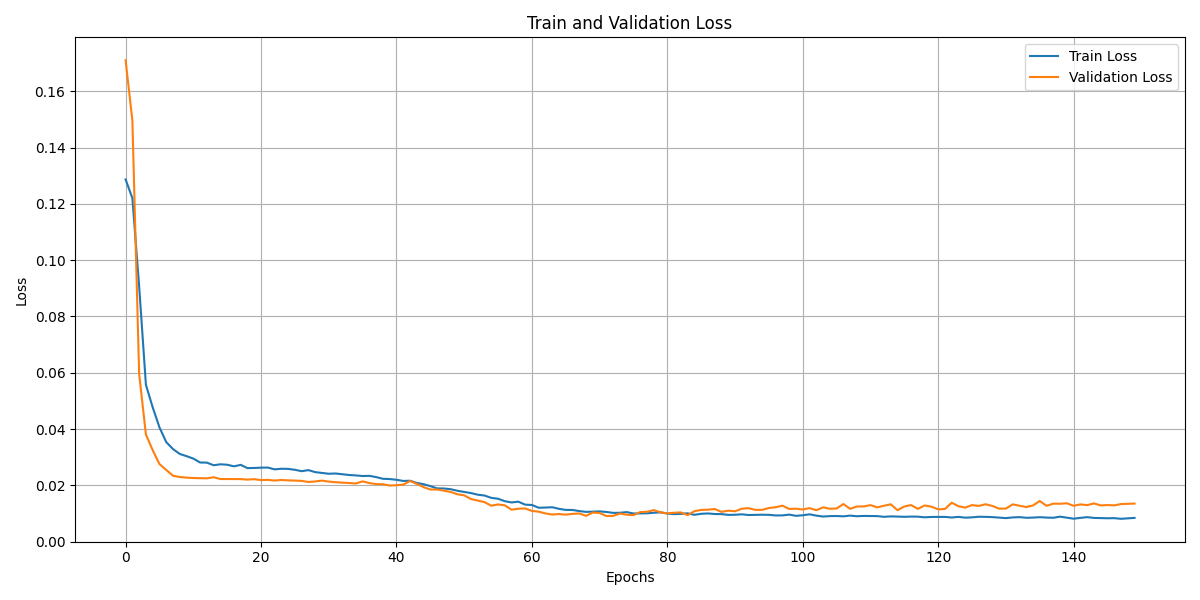
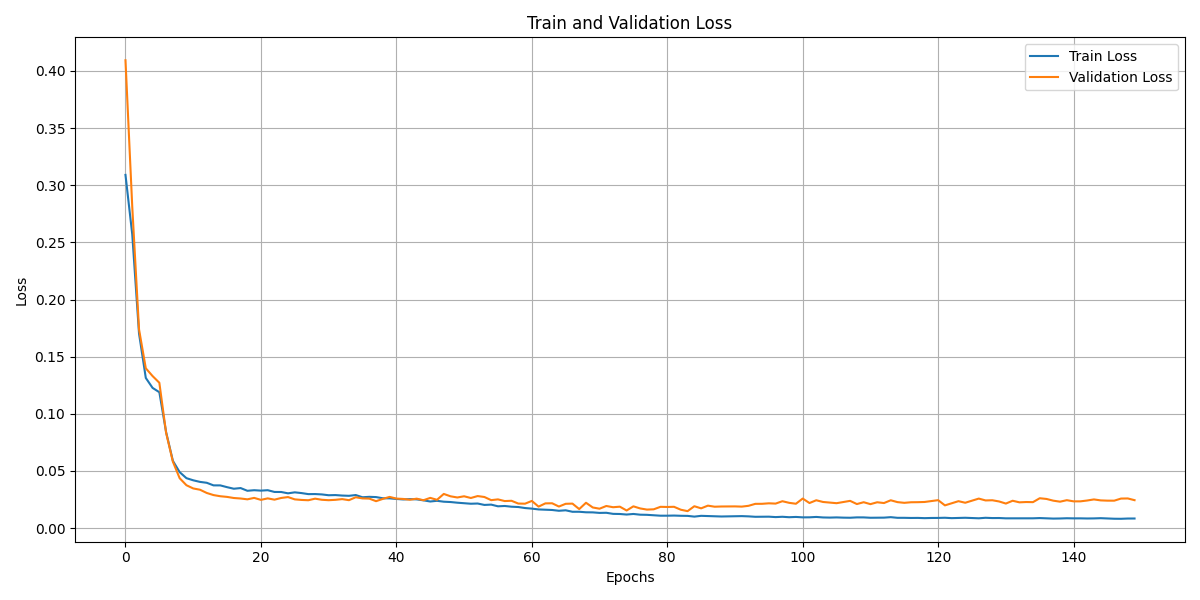
add GUI with streamlit

diff --git a/src/split_data.py b/src/split_data.py
@@ -74,25 +74,25 @@ def split_data(df, train_size=train_size, val_size=val_size, test_size=test_size
 
 if __name__ == "__main__":
     # Daily data
-    df_daily = pd.read_csv('../data/data_daily-2010_2025.csv', skiprows=2)
+    df_daily = pd.read_csv('./data/data_daily-2010_2025.csv', skiprows=2)
     df_daily['time'] = pd.to_datetime(df_daily['time'], format='%Y-%m-%d')
     df_daily = df_daily.set_index('time')
     df_daily = df_daily.sort_index(ascending=True)
     
     daily_data_temp = df_daily[['temperature_2m_mean (°C)', 'soil_temperature_0_to_7cm_mean (°C)', 'et0_fao_evapotranspiration_sum (mm)', 'relative_humidity_2m_mean (%)', 'soil_moisture_0_to_7cm_mean (m³/m³)']].copy()
-    split_data(daily_data_temp, path='../data/daily/temp/')
-    joblib.dump(scaler, '../data/scaler_temp.save')
+    split_data(daily_data_temp, path='./data/daily/temp/')
+    joblib.dump(scaler, './data/scaler_temp.save')
     
     daily_data_rh = df_daily[['relative_humidity_2m_mean (%)', 'soil_moisture_0_to_7cm_mean (m³/m³)', 'cloud_cover_mean (%)', 'temperature_2m_mean (°C)', 'soil_temperature_0_to_7cm_mean (°C)', 'et0_fao_evapotranspiration_sum (mm)']].copy()
-    split_data(daily_data_rh, path='../data/daily/rh/')
-    joblib.dump(scaler, '../data/scaler_rh.save')
+    split_data(daily_data_rh, path='./data/daily/rh/')
+    joblib.dump(scaler, './data/scaler_rh.save')
     
     # Hourly data
-    df_hourly = pd.read_csv('../data/data_hourly-2023_2025.csv', skiprows=2)
+    df_hourly = pd.read_csv('./data/data_hourly-2023_2025.csv', skiprows=2)
     df_hourly['time'] = pd.to_datetime(df_hourly['time'], format='ISO8601')
     df_hourly = df_hourly.set_index('time')
     df_hourly = df_hourly.sort_index(ascending=True)
     
     hourly_data = df_hourly[['temperature_2m (°C)', 'soil_temperature_0_to_7cm (°C)', 'et0_fao_evapotranspiration (mm)', 'relative_humidity_2m (%)', 'soil_moisture_0_to_7cm (m³/m³)']].copy()
-    split_data(hourly_data, path='../data/hourly/')
-    joblib.dump(scaler, '../data/scaler_hourly.save')
+    split_data(hourly_data, path='./data/hourly/')
+    joblib.dump(scaler, './data/scaler_hourly.save')

diff --git a/src/GUI/streamlit.py b/src/GUI/streamlit.py
@@ -1,0 +1,61 @@
+import streamlit as st
+import sys
+import torch
+import os
+from src import setting
+
+
+sys.path.append(os.path.abspath(os.path.join(os.path.dirname(__file__), '..', '..')))
+
+input_size = setting.input_size
+hidden_size = setting.hidden_size
+num_layers = setting.num_layers
+output_size = setting.output_size
+learning_rate = setting.learning_rate
+batch_size = setting.batch_size
+seq_length = setting.seq_length
+d_model = setting.d_model
+num_heads = setting.num_heads
+num_layers_transformer = setting.num_layers_transformer
+dropout = setting.dropout
+device = setting.device
+
+st.title("Weather Forecasting")
+
+LSTM_model = st.checkbox("LSTM model!")
+Transformer_model = st.checkbox("Transformer model!")
+model = None
+if LSTM_model:
+    from src.model.WeatherLSTM import WeatherLSTM
+    model = WeatherLSTM(
+        input_size=input_size,
+        hidden_size=hidden_size,
+        output_size=output_size,
+        num_layers=num_layers,
+        dropout=dropout
+    ).to(device)
+    model.load_state_dict(torch.load('./src/model/daily/weather_lstm_temp.pth'))
+    st.caption("LSTM model selected !!!")
+    st.image('./src/image/daily/loss_lstm_temp.png', caption='LSTM model loss')
+    st.image('./src/image/daily/weather_lstm_temp.png', caption='LSTM model architecture')
+elif Transformer_model:
+    from src.model.WeatherTransformer import WeatherTransformer
+    model = WeatherTransformer(
+        input_size=input_size,
+        d_model=d_model,
+        nhead=num_heads,
+        num_layers=num_layers_transformer,
+        output_size=output_size,
+        dropout=dropout
+    ).to(device)
+    model.load_state_dict(torch.load('./src/model/daily/weather_transformer_temp.pth'))
+    st.caption("Transformer model selected !!!")
+    st.image('./src/image/daily/loss_transformer_temp.png', caption='Transformer model loss')
+    st.image('./src/image/daily/weather_transformer_temp.png', caption='Transformer model architecture')
+elif LSTM_model and Transformer_model:
+    st.error("Please select only one model!")
+    st.stop()
+else:
+    st.error("Please select a model!")
+    st.stop()
+    

diff --git a/src/test.py b/src/test.py
@@ -34,8 +34,8 @@ batch_size = setting.batch_size  # Number of samples per batch
 
 seq_length = setting.seq_length  # Length of the input sequence
 
-# model = setting.LSTM_model.to(device)
-model = setting.Transformer_model.to(device)
+model = setting.LSTM_model.to(device)
+# model = setting.Transformer_model.to(device)
 
 state_dict = torch.load('./model/'+setting.path, map_location=device)
 model.load_state_dict(state_dict)
@@ -90,5 +90,5 @@ plt.xlabel('Time Step')
 plt.ylabel('Temperature')
 plt.legend()
 # plt.savefig(setting.images_path + 'weather_lstm_rh.png')
-plt.savefig(setting.images_path + 'weather_transformer_temp.png')
+plt.savefig(setting.images_path + 'weather_lstm_temp.png')
 plt.show()

diff --git a/src/train.py b/src/train.py
@@ -31,8 +31,8 @@ seq_length = setting.seq_length  # Length of the input sequence
 
 num_epochs = setting.num_epochs  # Number of epochs to train the model
 
-# model = setting.LSTM_model.to(device)
-model = setting.Transformer_model.to(device)
+model = setting.LSTM_model.to(device)
+# model = setting.Transformer_model.to(device)
 
 
 # Define the model, loss function, and optimizer
@@ -92,6 +92,6 @@ plt.tight_layout()
 
 if not os.path.exists(path_image):
     os.makedirs(path_image)
-# plt.savefig(path_image+'loss_lstm_rh.png')
-plt.savefig(path_image+'loss_transformer_temp.png')
+plt.savefig(path_image+'loss_lstm_temp.png')
+# plt.savefig(path_image+'loss_transformer_temp.png')
 plt.show() 

diff --git a/src/model/WeatherTransformer.py b/src/model/WeatherTransformer.py
@@ -21,8 +21,15 @@ class PositionalEncoding(nn.Module):
 
 
 class WeatherTransformer(nn.Module):
-    def __init__(self, input_size, d_model, nhead, num_layers, output_size, dropout=0.1):
+    def __init__(self, input_size=5, d_model=64, nhead=2, num_layers=2, output_size=1, dropout=0.1):
         super().__init__()
+        self.input_size = input_size
+        self.d_model = d_model
+        self.nhead = nhead
+        self.num_layers = num_layers
+        self.output_size = output_size
+        self.d_model = d_model
+        
         self.embedding = nn.Linear(input_size, d_model)
         self.pos_encoder = PositionalEncoding(d_model)
         

diff --git a/src/model/WeatherLSTM.py b/src/model/WeatherLSTM.py
@@ -2,9 +2,12 @@ import torch.nn as nn
 import torch.nn.functional as F
 
 class WeatherLSTM(nn.Module):
-    def __init__(self, input_size, hidden_size, output_size, num_layers=1, dropout=0.3):
+    def __init__(self, input_size=5, hidden_size=64, output_size=1, num_layers=1, dropout=0.3):
         super(WeatherLSTM, self).__init__()
         self.hidden_size = hidden_size
+        self.num_layers = num_layers
+        self.input_size = input_size
+        self.output_size = output_size
         self.num_layers = num_layers
         self.dropout = nn.Dropout(dropout)
 
